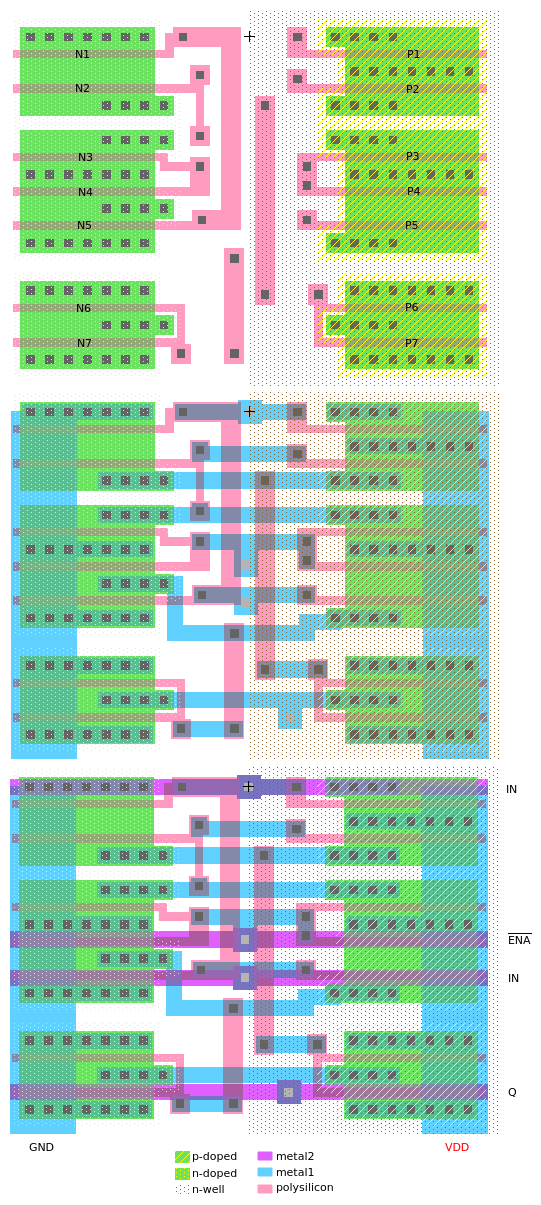
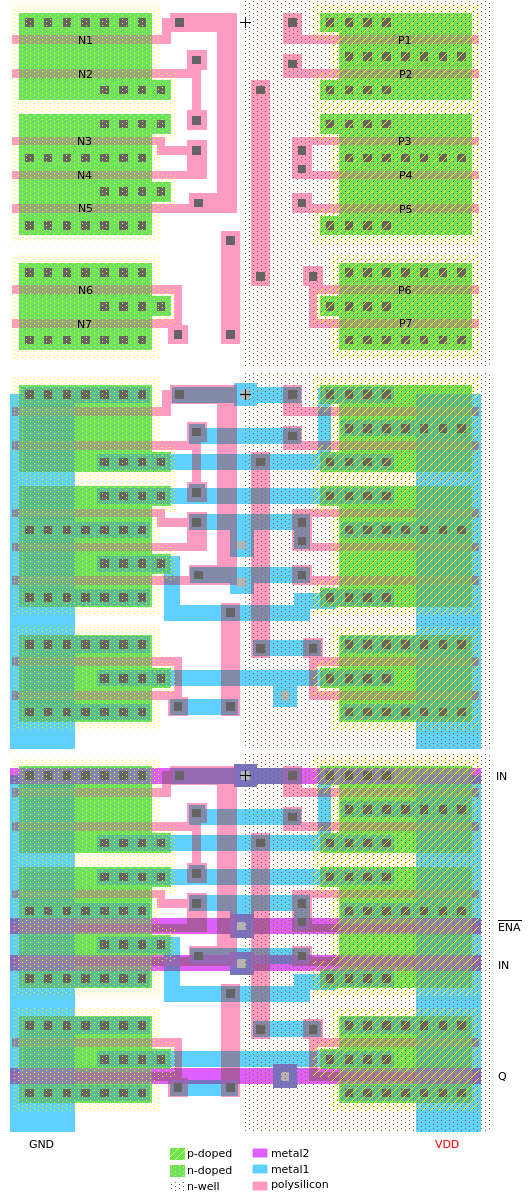
dmg cell doc: Fix layout of tri_buf_if0 cell
fixes #1

diff --git a/doc/dmg_cells.html b/doc/dmg_cells.html
@@ -3690,7 +3690,7 @@ When high, <i>Q</i> is not driven.</td></tr>
 <td>Tri-state output.</td></tr>
 </table></td></tr>
 </table>
-<p><img src="img/cells/tri_buf_if0_layout.png?v=1" alt=""></p>
+<p><img src="img/cells/tri_buf_if0_layout.png?v=2" alt=""></p>
 <p><img src="img/cells/tri_buf_if0_sch.png?v=0" alt=""></p>
 <p>Instances:
 <a href="/dmg_cpu_b_map/?view=c:ajov">AJOV</a>
